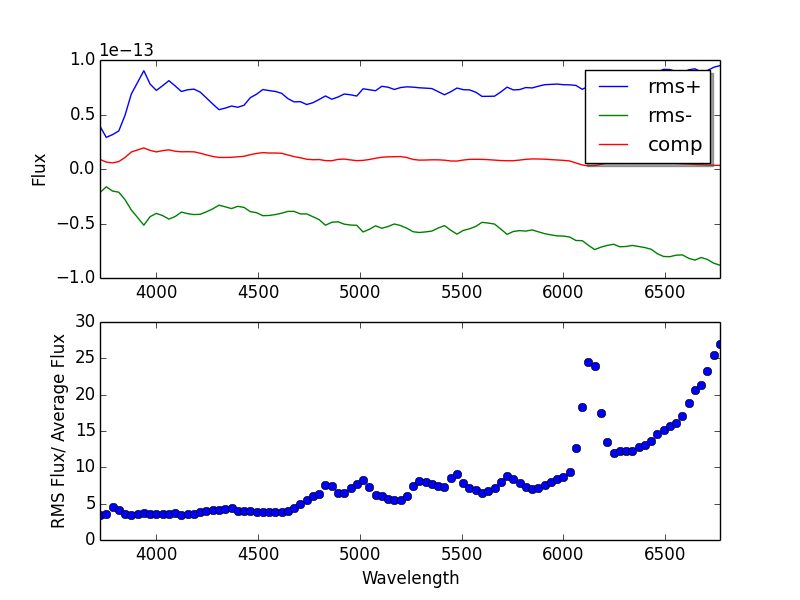
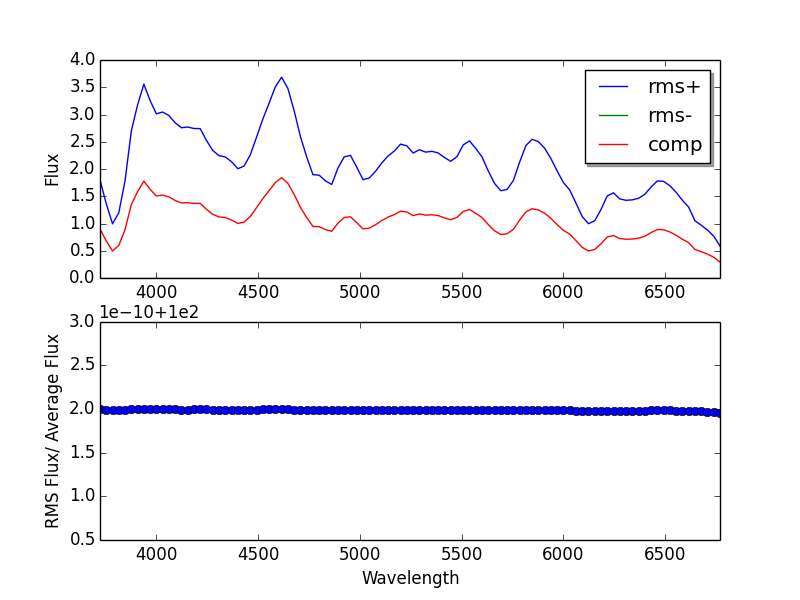
updated week 3 program

diff --git a/personal/AaronBeaudoin/week3/specavg.py b/personal/AaronBeaudoin/week3/specavg.py
@@ -31,6 +31,7 @@ sn_z = parameters["col2"]
 for i in range(len(file_name)):
 	old_spectrum=spectra_arrays[i]
 	z=0
+	#file_name = spectra_files[i]
 	for j in range(len(sn_name)):
 		if sn_name[j] in file_name[i]:
 			z=sn_z[j]
@@ -62,6 +63,7 @@ for i in range(len(spectra_arrays)):
 	lines=np.where((new_wave>wave_min) & (new_wave<wave_max))	#creates an array of wavelength values between minimum and maximum wavelengths from new spectrum
 	sm1=inter.splrep(new_wave[lines],new_flux[lines])	#creates b-spline from new spectrum
 	y1=inter.splev(wavelength,sm1)	#fits b-spline over wavelength range
+	y1 /= np.median(y1)
 	fitted_flux.append(y1)
 
 sum = fitted_flux[0]
@@ -87,16 +89,32 @@ for i in range(len(wavelength)):
 		spectrum=spectra_arrays[j]
 		flux = spectrum["col2"]
 		flux_sum = flux_sum + (flux[i]-avg_flux[i])**2
-	flux_rms=(flux_sum)**.5
-	#flux_rms=(flux_sum/len(spectra_arrays))**.5
+	#flux_rms=(flux_sum)**.5
+	flux_rms=(flux_sum/len(spectra_arrays))**.5
 	rms_max=avg_flux[i] + flux_rms
 	rms_min=avg_flux[i] - flux_rms
 	rms_flux_max.append(rms_max)
 	rms_flux_min.append(rms_min)
-	scatter.append(flux_rms/avg_flux[i])
+	scatter.append(flux_rms/avg_flux[i]*100)	
+"""
+
+for i in range(len(wavelength)):
+	chi_square = 0
+	a_flux = avg_flux[i]
+	for j in range(len(spectra_arrays)):
+		spectrum=spectra_arrays[j]
+		flux = spectrum["col2"]
+		chi_square = chi_square + ((flux[i]-a_flux)**2/flux[i])
+	flux_rms= chi_square
+	rms_max=a_flux + flux_rms
+	rms_min=a_flux - flux_rms
+	rms_flux_max.append(rms_max)
+	rms_flux_min.append(rms_min)
+	scatter.append(flux_rms/a_flux)
+	"""
 	
-rms_max_spectrum=Table([wavelength,rms_flux_max],names=('col1','col2'))
-rms_min_spectrum=Table([wavelength,rms_flux_min],names=('col1','col2'))
+#rms_max_spectrum=Table([wavelength,rms_flux_max],names=('col1','col2'))
+#rms_min_spectrum=Table([wavelength,rms_flux_min],names=('col1','col2'))
 
 #RMS Residual
 plt.figure(1)
